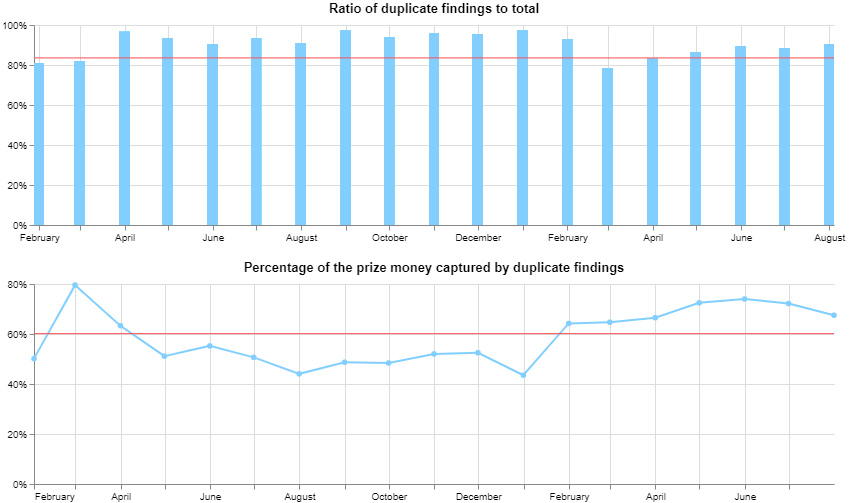
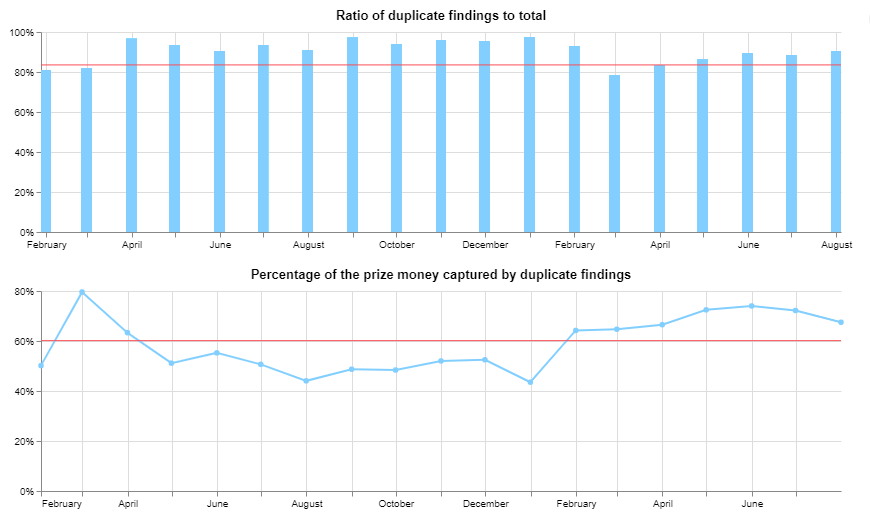
Update chart image

diff --git a/README.md b/README.md
@@ -250,7 +250,7 @@ Although it's normal and pretty common to have duplicates, if we suppose that au
 Below is a chart showing what's happening to [Code4rena](#code4rena) in the last few months as more and more people are joining. A bulk of the submissions are coming from newcomers submitting low-level findings that accounts for a larger and larger proportion of the prize pool. Even though they reduced the ratio of duplicate findings (they require that all low-level findings be submitted as a **unique** report), the sheer number of them just tears through the prize money allocation (around ~70% to duplicates in the last 6 months although that also includes higher quality findings).
 
 *Duplicate findings charts*
-![Duplicate findings stats extracted from Code4rena](duplicate_findings.png)
+![Duplicate findings stats extracted from Code4rena](duplicate_findings.jpg)
 
 *Findings distribution chart ranked by severity (highest to lowest, top-bottom)*
 ![Findings distribution chart extracted from Code4rena](findings_distribution.png)
